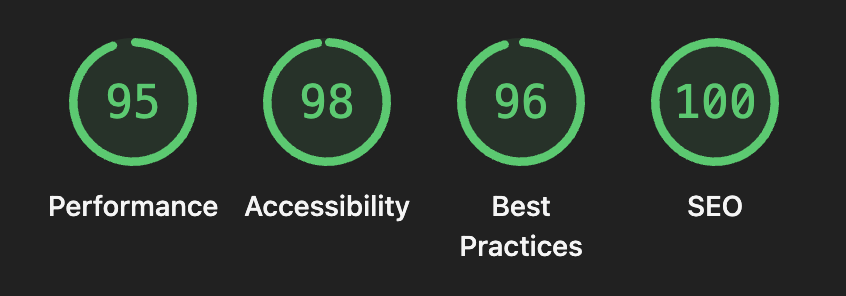
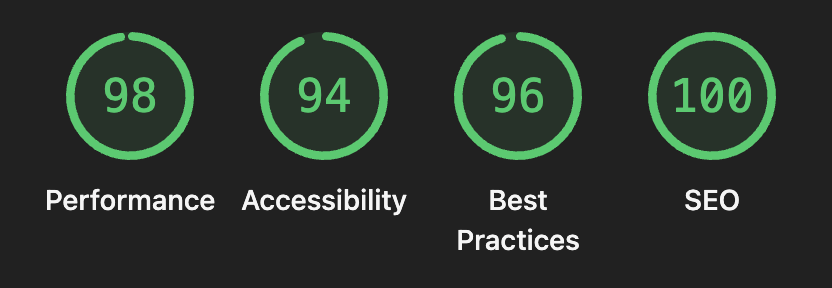
docs: refresh Lighthouse audit snapshot

diff --git a/README.md b/README.md
@@ -13,9 +13,9 @@
 <br />
 
 <p align="center">
-  <img src="./lighthouse.png" alt="GoogleMe Lighthouse Audit Scores: 95 Performance, 98 Accessibility, 96 Best Practices, 100 SEO" width="850" />
+  <img src="./lighthouse.png" alt="GoogleMe Lighthouse Audit Scores: 98 Performance, 94 Accessibility, 96 Best Practices, 100 SEO" width="850" />
 </p>
-<p align="center"><sub>Audit snapshot taken from <code>./lighthouse.png</code> against a production build. Live scores vary depending on client network conditions, device capabilities, and geographic routing.</sub></p>
+<p align="center"><sub>Desktop Lighthouse audit snapshot captured on October 16, 2026, against the production build (<code>./lighthouse.png</code>). Live scores may vary depending on network conditions, device capabilities, and browser environment.</sub></p>
 
 [Live Demo](https://www.anuragjaiswal.me) · [Architecture](docs/ARCHITECTURE.md) · [API Reference](docs/API.md) · [Security](docs/SECURITY.md) · [Testing](docs/TESTING.md) · [Deployment](docs/DEPLOYMENT.md) · [Configuration](docs/CONFIGURATION.md)
 
